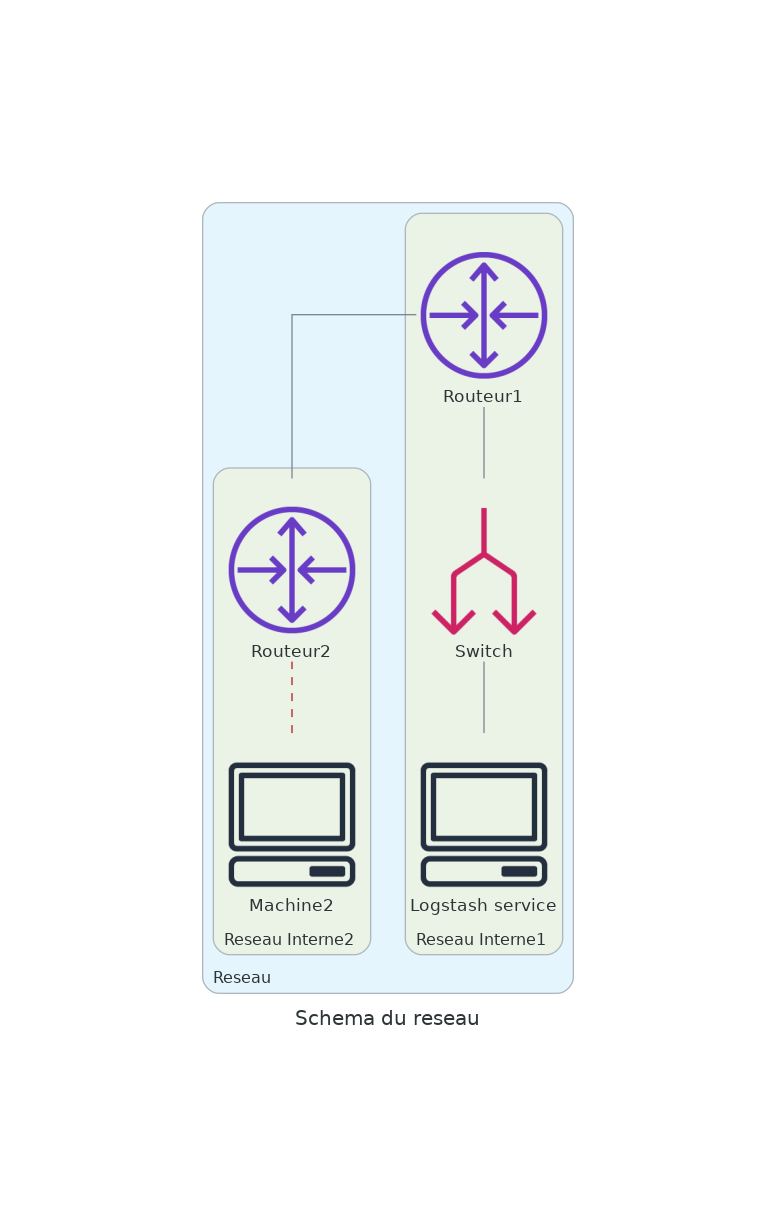
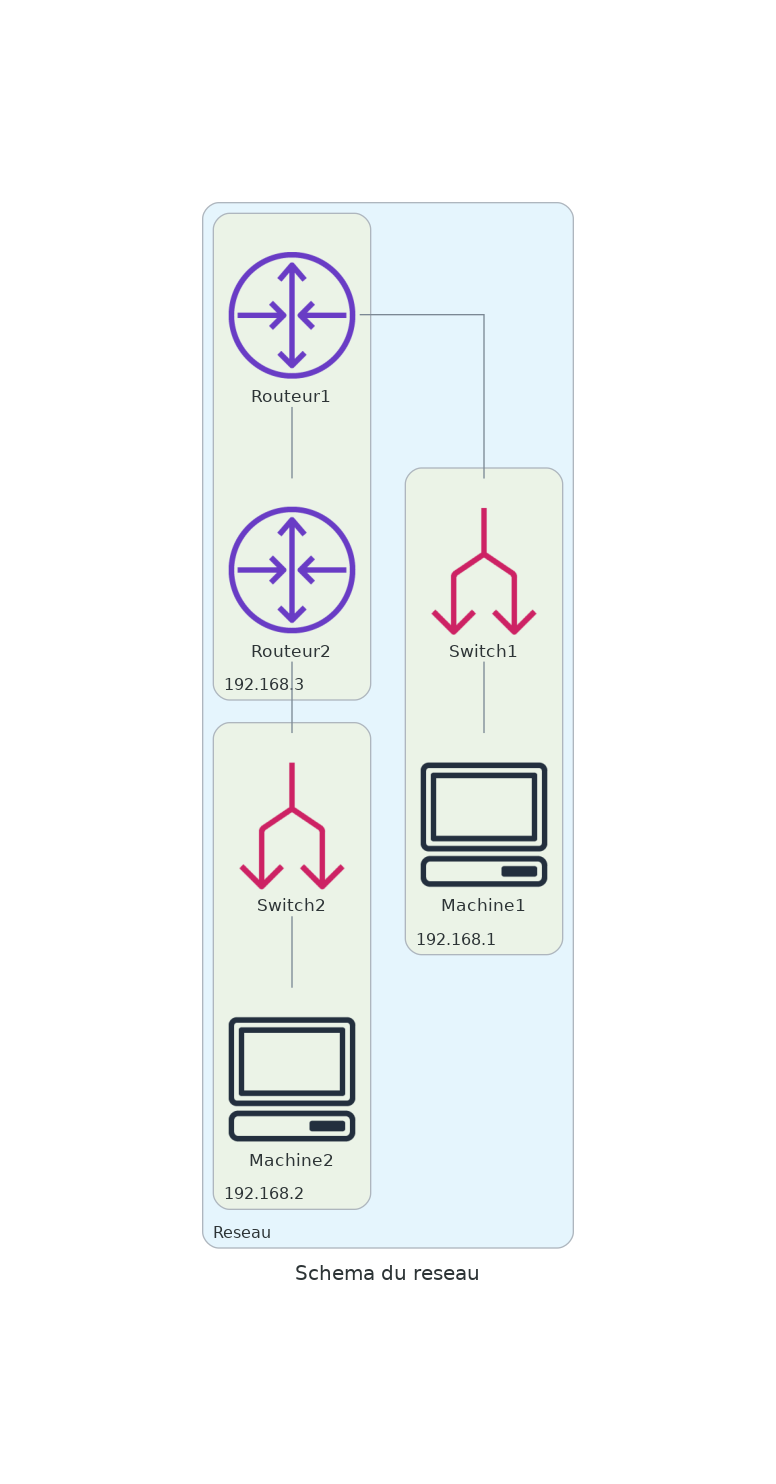
schéma du reseau

Changed region(s): [[0.2474, 0.3401, 0.7423, 0.8657], [0.2474, 0.1237, 0.7423, 0.4638], [0.5258, 0.4638, 0.7113, 0.773]]

diff --git a/testdiagrams.py b/testdiagrams.py
@@ -22,18 +22,22 @@ import csv
 # La directionest la direction dans laquelle vous voulez que le diagramme soit imprimé. 
 # Les valeurs prises en charge pour directionsommes TB(Haut -> Bas) et LR(Gauche -> Droite). 
 # Sélection du directionpeut faciliter la lecture du schéma. Pour ce diagramme, vous utiliserez LR.
-with Diagram("Schema du reseau", show=False, filename="my-diagram", direction="BT"):
+with Diagram("Schema du reseau", filename="my-diagram", direction="BT"):
     with Cluster ("Reseau"):
         
-        
-        
-        with Cluster("Reseau Interne1"):
+        with Cluster("192.168.3"):
+            
             Routeur1 = VPCRouter("Routeur1")
-            switch = OpsworksDeployments("Switch")
-            Machine1 = Client("Logstash service")
-        
-        with Cluster("Reseau Interne2"):
             Routeur2 = VPCRouter("Routeur2")
+            
+        with Cluster("192.168.1"):
+            Routeur1
+            switch1 = OpsworksDeployments("Switch1")
+            Machine1 = Client("Machine1")
+            
+        with Cluster("192.168.2"):
+            Routeur2
+            switch2 = OpsworksDeployments("Switch2")
             Machine2 = Client("Machine2")
         
     
@@ -41,8 +45,8 @@ with Diagram("Schema du reseau", show=False, filename="my-diagram", direction="B
     #créer des dépendances entre les différents éléments du diagramme
     # - un lien 
     # << ou >> une flèche
-    Machine1 - switch - Routeur1 
-    Machine2 - Edge(color="firebrick", style="dashed") - Routeur2  
+    Machine1 - switch1 - Routeur1 
+    Machine2 - switch2 - Routeur2  
     Routeur2 - Routeur1
     
 
